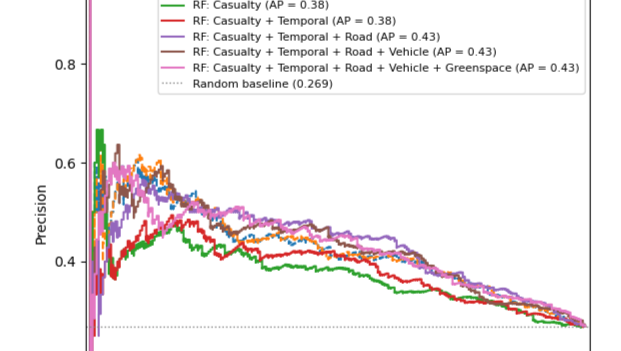
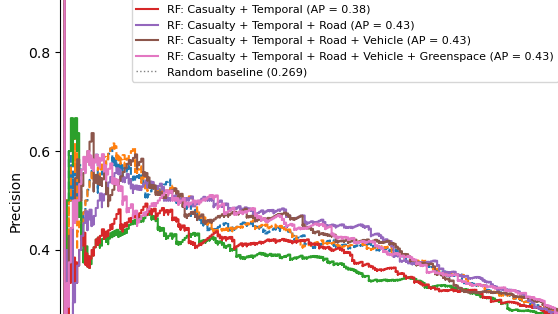
update

Changed region(s): [[0.0, 0.0, 1.0, 1.0], [0.6093, 0.9172, 0.6398, 0.9459], [0.5179, 0.9172, 0.5484, 0.9459]]

diff --git a/docs/projects.html b/docs/projects.html
@@ -392,6 +392,7 @@ TfL Vision Zero Action Plan
 
 </div>
 <div class="card-text listing-description delink">
+<p>A Spatial Analysis of Hotspots Clustering Activities of Deaths and Injuries in London</p>
 </div>
 <div class="card-attribution card-text-small end">
 <div class="listing-date">
@@ -448,6 +449,32 @@ Las Vegas Valley Turf Tracker
 <div class="card-attribution card-text-small end">
 <div class="listing-date">
 Apr 28, 2026
+</div>
+</div>
+</div>
+</div></a>
+</div>
[1 lines of base64/hex data omitted]
+<a href="https://christychoicc.github.io/london-pedestrian-severity/" class="quarto-grid-link">
+<div class="quarto-grid-item card h-100 card-left borderless">
+<p class="card-img-top">
+<img loading="lazy" src="images/DSSS.png" class="thumbnail-image card-img" style="height: 150px;">
+</p>
+<div class="card-body post-contents">
+<h5 class="no-anchor card-title listing-title">
+Pedestrian Collision Severity in London
+</h5>
+<div class="listing-categories">
+
[1 lines of base64/hex data omitted]
+
+</div>
+<div class="card-text listing-description delink">
+<p>Does Proximity to Greenspace Access Points Improve Prediction of Severe Pedestrian Injury Outcomes?</p>
+</div>
+<div class="card-attribution card-text-small end">
+<div class="listing-date">
+May 5, 2026
 </div>
 </div>
 </div>
